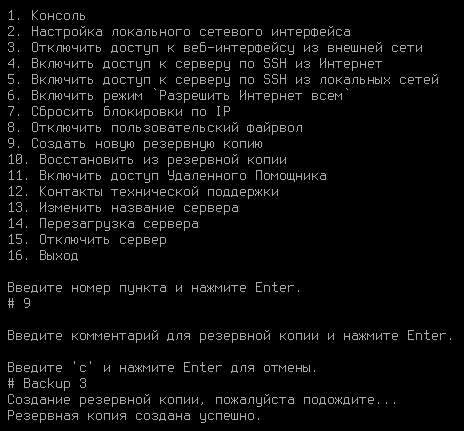
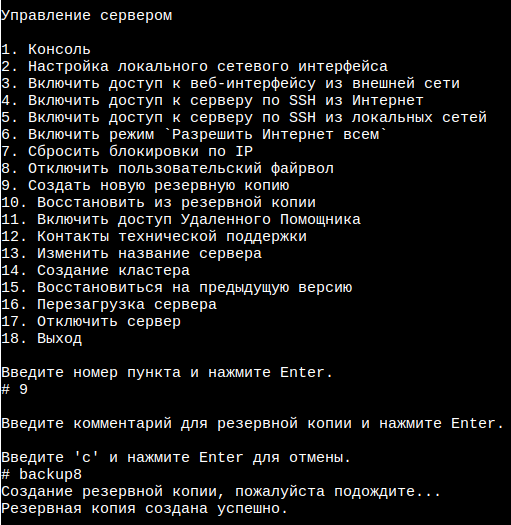
ICS-26998 УТМ. Актуализировать графику локального интерфейса

Changed region(s): [[0.0, 0.0, 0.9655, 0.9954], [0.8448, 0.0905, 0.9052, 0.1206]]

diff --git a/settings/server-management/cluster.md b/settings/server-management/cluster.md
@@ -54,7 +54,7 @@ description: >-
 
 <img src="../../.gitbook/assets/cluster8.png" alt="" data-size="original">
 
-2\. Введите y и нажмите Enter;
+2\. Введите *y* и нажмите Enter;
 
 3\. Выберите сетевую карту:
 
@@ -89,6 +89,8 @@ description: >-
 2\. Выберите пункт **Создание кластера**:
 
 <img src="../../.gitbook/assets/cluster4.png" alt="" data-size="original">
+
+Пункты *Восстановиться на предыдущую версию* и *Создание кластера* будут отсутствовать, если кластер на ноде уже настроен
 
 3\. Выберите свободную физическую сетевую карту для создания кластерной сети и подтвердите выбор:
 

diff --git a/recipes/popular-recipes/go-back.md b/recipes/popular-recipes/go-back.md
@@ -18,6 +18,10 @@
 
 Появится окно с предупреждением и описанием версии, на которую произойдет переключение.
 
+{% hint style="info" %}
+Если в Ideco UTM настроен кластер, то в локальном меню будут отсутствовать пункты **Восстановиться на предыдущую версию** и **Создание кластера**.
+{% endhint %}
+
 3\. Подтвердите ваш выбор, введя **y** и нажав **Enter**:
 
 ![](../../.gitbook/assets/console2.png)
